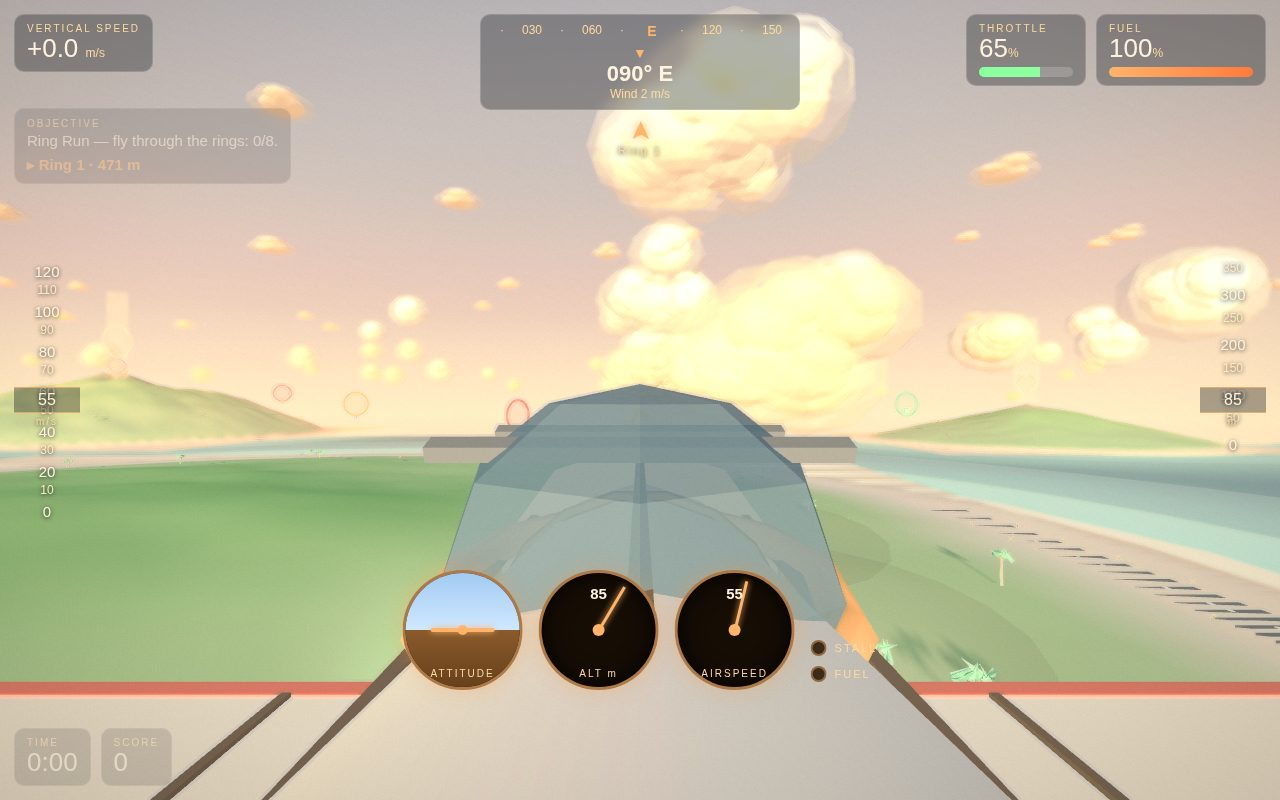
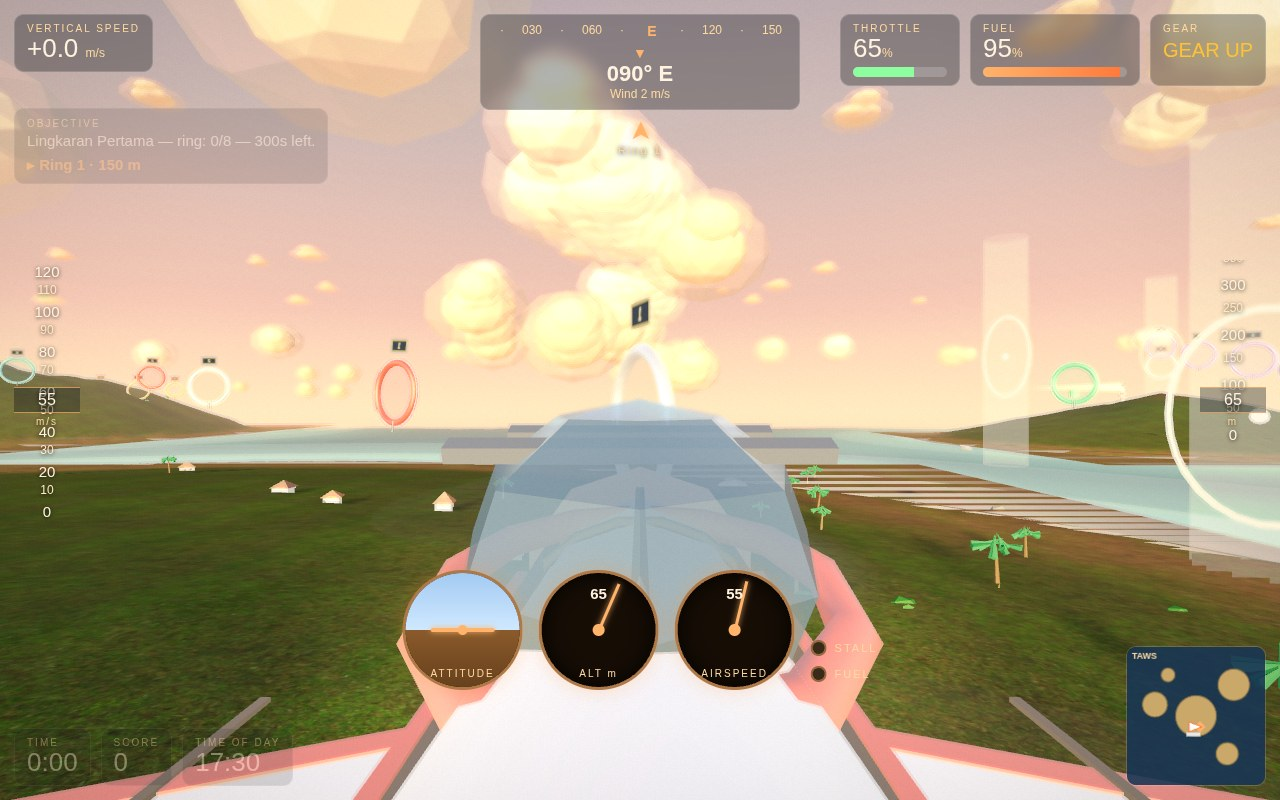
R2-7: 4 screenshot final R2 + shots.json (cover Rajawali afterburner, kokpit ring dekat, boss Badai Leviathan, hangar) + preset boss/hangar & ?plane=

diff --git a/game/src/shots.js b/game/src/shots.js
@@ -9,7 +9,7 @@ import { WORLD } from './config.js';
 
 const DEG = Math.PI / 180;
 
-export const SHOT_NAMES = ['cover', 'cockpit', 'rings', 'landing'];
+export const SHOT_NAMES = ['cover', 'cockpit', 'rings', 'landing', 'boss', 'hangar'];
 
 function readQuery() {
   try {
@@ -42,6 +42,8 @@ export function createShots(render, flight, world, missions) {
     st.throttle = throttle;
     st.fuel = 100;
     st.damage = 0;
+    st.gearDown = false;
+    st.gearDeploy = 0;
     st.status = 'flying';
     st.stalled = false;
     st.gliding = false;
@@ -58,8 +60,8 @@ export function createShots(render, flight, world, missions) {
   // nothing is ever written to storage from here).
   function startForShot(index, freeFallback) {
     if (!missions || typeof missions.start !== 'function') return false;
-    if (typeof missions.unlocked === 'number') {
-      missions.unlocked = Math.max(missions.unlocked, 4);
+    if (typeof missions.unlocked === 'number' && index >= 0) {
+      missions.unlocked = Math.max(missions.unlocked, index);
     }
     if (index >= 0 && missions.start(index)) return true;
     return missions.start(freeFallback || 'free');
@@ -81,13 +83,35 @@ export function createShots(render, flight, world, missions) {
       // while the screenshot waits, and the turn walks the sun out of
       // the frame; wings-level locks the sun/Merapi composition.
       startForShot(1, 'free');
-      pose(1650, 100, 100, 62, 0, 70, 0.7, 0);
+      pose(1650, 100, 100, 62, 0, 70, 0.95, 0);
       render.setView('chase');
     } else if (name === 'cockpit') {
-      // Cockpit view on the same approach, lower, instruments lit.
+      // Cockpit view, ~150 m short of ring 1 (120, 60, 330) so the
+      // gold ring + number board fill the view ahead instead of
+      // reading as a distant speck; instruments lit, tapes + TAWS live.
       startForShot(1, 'free');
-      pose(-350, 85, ringZ, -90, 0, 55, 0.65);
+      pose(-30, 65, ringZ, -90, 0, 55, 0.65);
       render.setView('cockpit');
+    } else if (name === 'boss') {
+      // Boss finale (sortie 12): storm on, dusk pinned via ?time=.
+      // Rajawali banked 15 deg at 80 m/s, 180 m short of storm ring 1
+      // (300, 80, 300) so the gold storm ring reads big ahead. (A
+      // northbound pose inside the cell was tried and reverted: at
+      // ~1 fps the chase camera never settles on the new yaw in the
+      // screenshot window and storm ring 4 never entered the frame.)
+      // Storm is switched on here (posed frames never run the live
+      // storm branch in main.js) so setTimeOfDay below picks the
+      // overcast env map. (HUD target still names ring 1 — posed
+      // staging, no ring flown.)
+      startForShot(11, 'free');
+      pose(120, 88, 300, -90, 0, 80, 0.9, 15);
+      render.setView('chase');
+      if (render && typeof render.setStorm === 'function') render.setStorm(true);
+    } else if (name === 'hangar') {
+      // Hangar/dispatch screen: no flight pose — the plane stays
+      // parked on the runway behind the hangar panel; main.js opens
+      // the hangar screen for this shot name. Time pin still applies
+      // (golden-hour tarmac behind the panel).
     } else if (name === 'rings') {
       // Just short of the first ring (120, 60, 330): the orange ring
       // fills the view ahead, the plane about to fly through it.

diff --git a/game/src/main.js b/game/src/main.js
@@ -645,8 +645,26 @@ if (quitEndBtn) quitEndBtn.addEventListener('click', toMenu);
 
 // ---- Screenshot staging: ?shot= poses the plane and freezes physics
 // so the composition holds while the renderer keeps drawing frames.
+// ?plane= picks the aircraft for the shot (e.g. Rajawali cover) —
+// applied before the shot poses, so the posed model is the right one.
+try {
+  const planeRaw = new URLSearchParams(window.location.search || '').get('plane');
+  if (planeRaw && ['cendrawasih', 'rajawali', 'komodo'].indexOf(planeRaw) !== -1 &&
+      planeRaw !== campaign.aircraft) {
+    selectAircraft(planeRaw);
+  }
+} catch (err) { /* no window / bad query: keep the saved aircraft */ }
 const shots = createShots(render, flight, world, missions);
-if (shots.shotName) {
+if (shots.shotName === 'hangar') {
+  // Hangar/dispatch shot: menu screen + hangar panel open, the 3D
+  // tarmac (parked plane) visible on the left of the panel.
+  state.shot = 'hangar';
+  state.posed = true;
+  state.screen = 'menu';
+  hud.setScreen('menu');
+  hud.setCockpit(false);
+  openHangar();
+} else if (shots.shotName) {
   state.shot = shots.shotName;
   state.posed = true;
   state.screen = 'playing';
